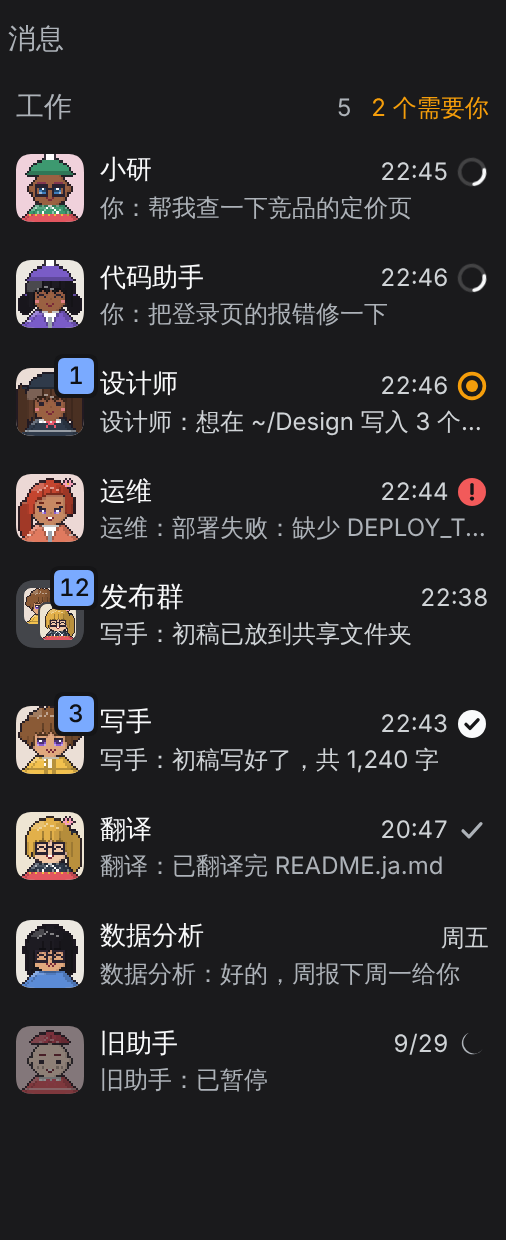
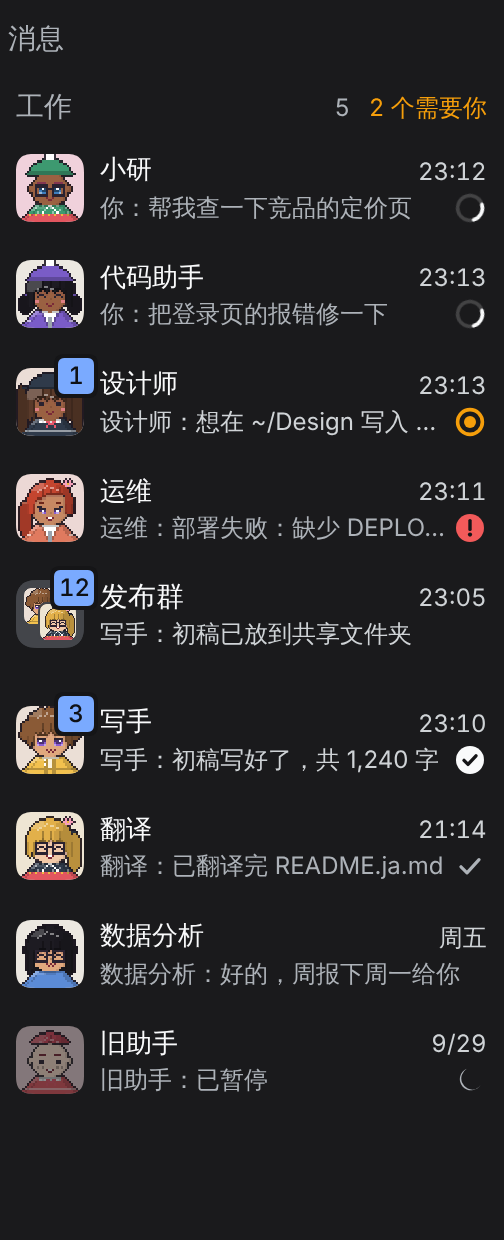
Move the Bot row status glyph to the end of the preview line
The title line now ends with the time alone, so times align down the list.

Claude-Session: https://claude.ai/code/session_019V1fiHDy1MsrPwEvXYhJfq

diff --git a/packages/client/test/bot-sidebar.test.ts b/packages/client/test/bot-sidebar.test.ts
@@ -667,10 +667,7 @@ describe('bot sidebar rows', () => {
       expect(time.textContent).toBe(
         formatChannelListTime(Date.parse(latestAt), Date.now(), zhTranslate),
       );
-      expect(
-        titleRow.lastElementChild === time ||
-          time.nextElementSibling?.classList.contains('bh-row-glyph'),
-      ).toBe(true);
+      expect(titleRow.lastElementChild).toBe(time);
       expect(time.getAttribute('title')).toBe(new Date(latestAt).toLocaleString());
     }
     expect(container.querySelector(`[data-channel-id="${FLAT_CHANNEL.id}"] time`)).toBeNull();
@@ -1969,7 +1966,7 @@ it('announces pending approvals in the Rail button while preserving working exec
   }
 });
 
-it('shows one trailing status glyph on the contact row instead of avatar badges', () => {
+it('shows one status glyph at the end of the preview line instead of avatar badges', () => {
   store.setRoster([BOT], [DM_CHANNEL]);
   store.applyActivity({
     generation: 'row-status-host',
@@ -1981,12 +1978,14 @@ it('shows one trailing status glyph on the contact row instead of avatar badges'
     const markup = renderSidebar();
     const row = markup.slice(markup.indexOf('class="bh-contact'));
     const avatar = row.slice(0, row.indexOf('class="bh-body"'));
-    const top = row.slice(row.indexOf('class="bh-top"'), row.indexOf('class="bh-msg"'));
+    const top = row.slice(row.indexOf('class="bh-top"'), row.indexOf('class="bh-bottom"'));
+    const bottom = row.slice(row.indexOf('class="bh-bottom"'), row.indexOf('</button>'));
     expect(avatar).not.toContain('bh-avatar-attention');
     expect(avatar).not.toContain('bh-avatar-botui');
     expect(top).not.toContain('bh-avatar-botui');
-    expect(top).toContain('class="bh-row-glyph" data-status="needs-you"');
-    expect(top).toContain('aria-label="正在等待你"');
+    expect(top).not.toContain('bh-row-glyph');
+    expect(bottom).toContain('class="bh-row-glyph" data-status="needs-you"');
+    expect(bottom).toContain('aria-label="正在等待你"');
     expect(markup).toContain('<span class="bh-section-needs">1 个需要你</span>');
   } finally {
     store.applyActivity({

diff --git a/packages/client/src/client/bot-sidebar.tsx b/packages/client/src/client/bot-sidebar.tsx
@@ -668,10 +668,10 @@ function BotRow({
             <span className="bh-name">{bot.displayName}</span>
             {muted ? <MutedMark t={t} /> : null}
             <ChannelMessageTime channel={channel} now={now} t={t} />
-            <ChannelRowStatusGlyph status={status} t={t} />
           </span>
           <span className="bh-bottom">
             <span className="bh-msg">{preview}</span>
+            <ChannelRowStatusGlyph status={status} t={t} />
           </span>
         </span>
         {showShortcutHints && shortcut !== undefined ? (
